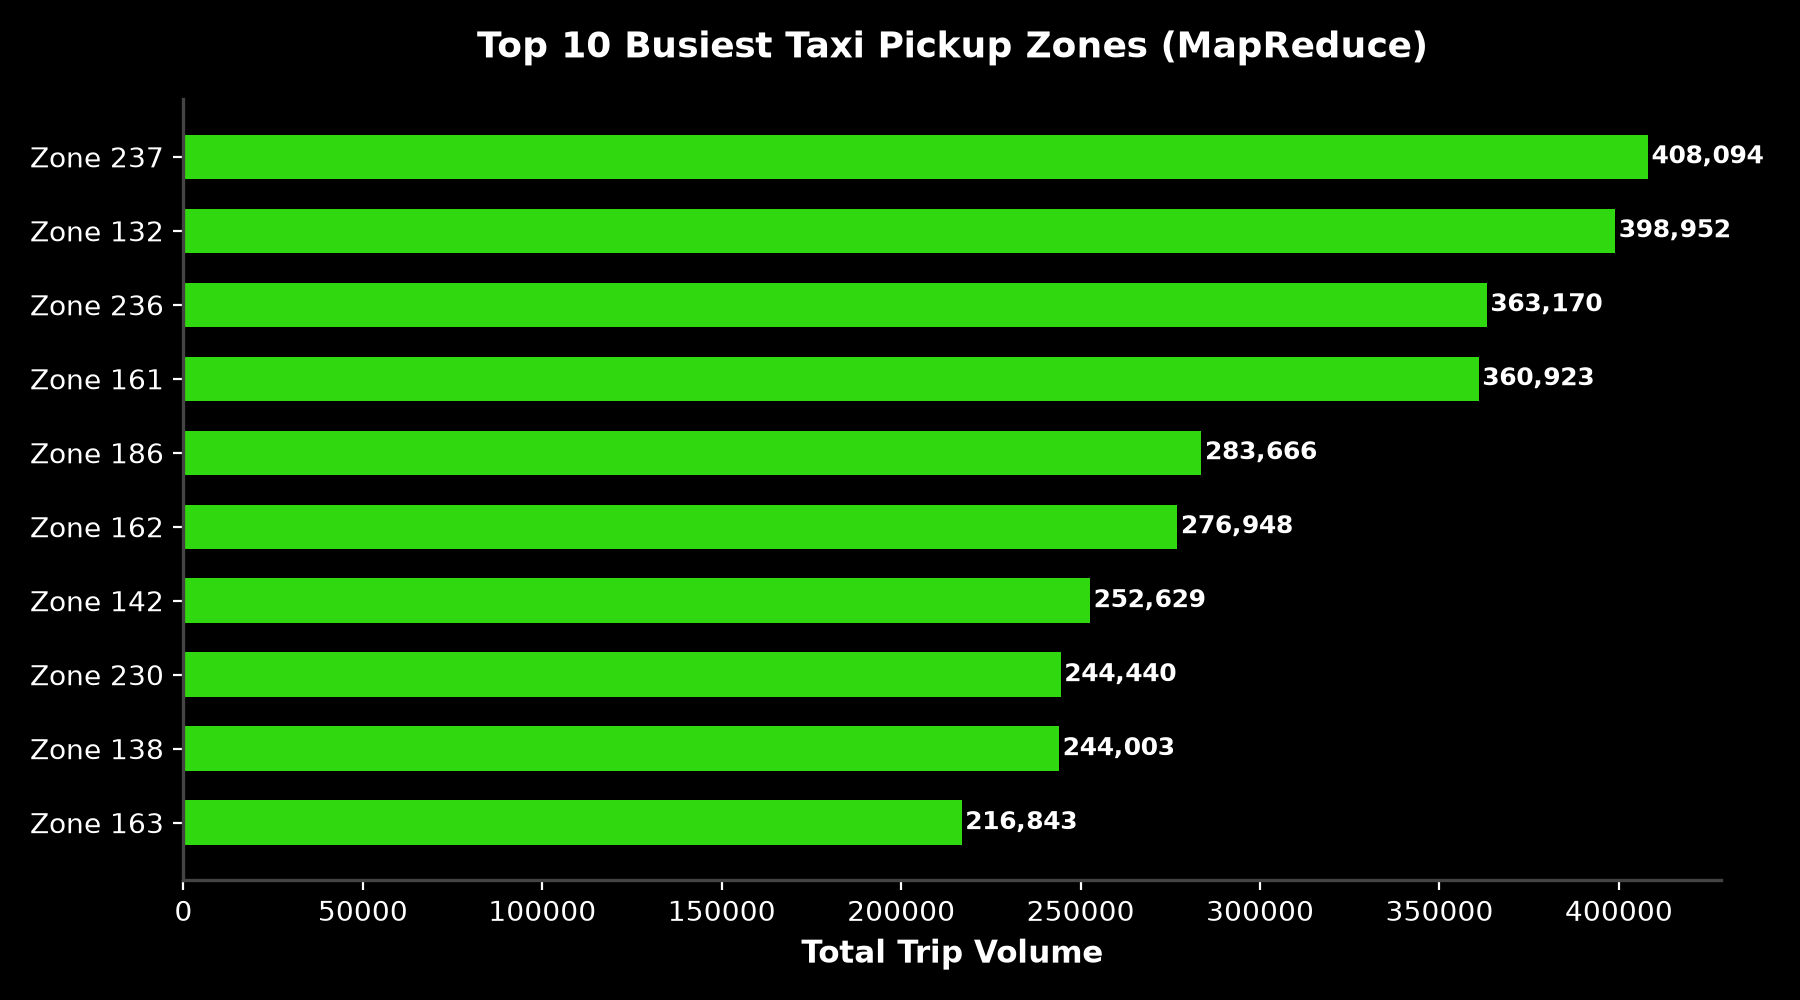
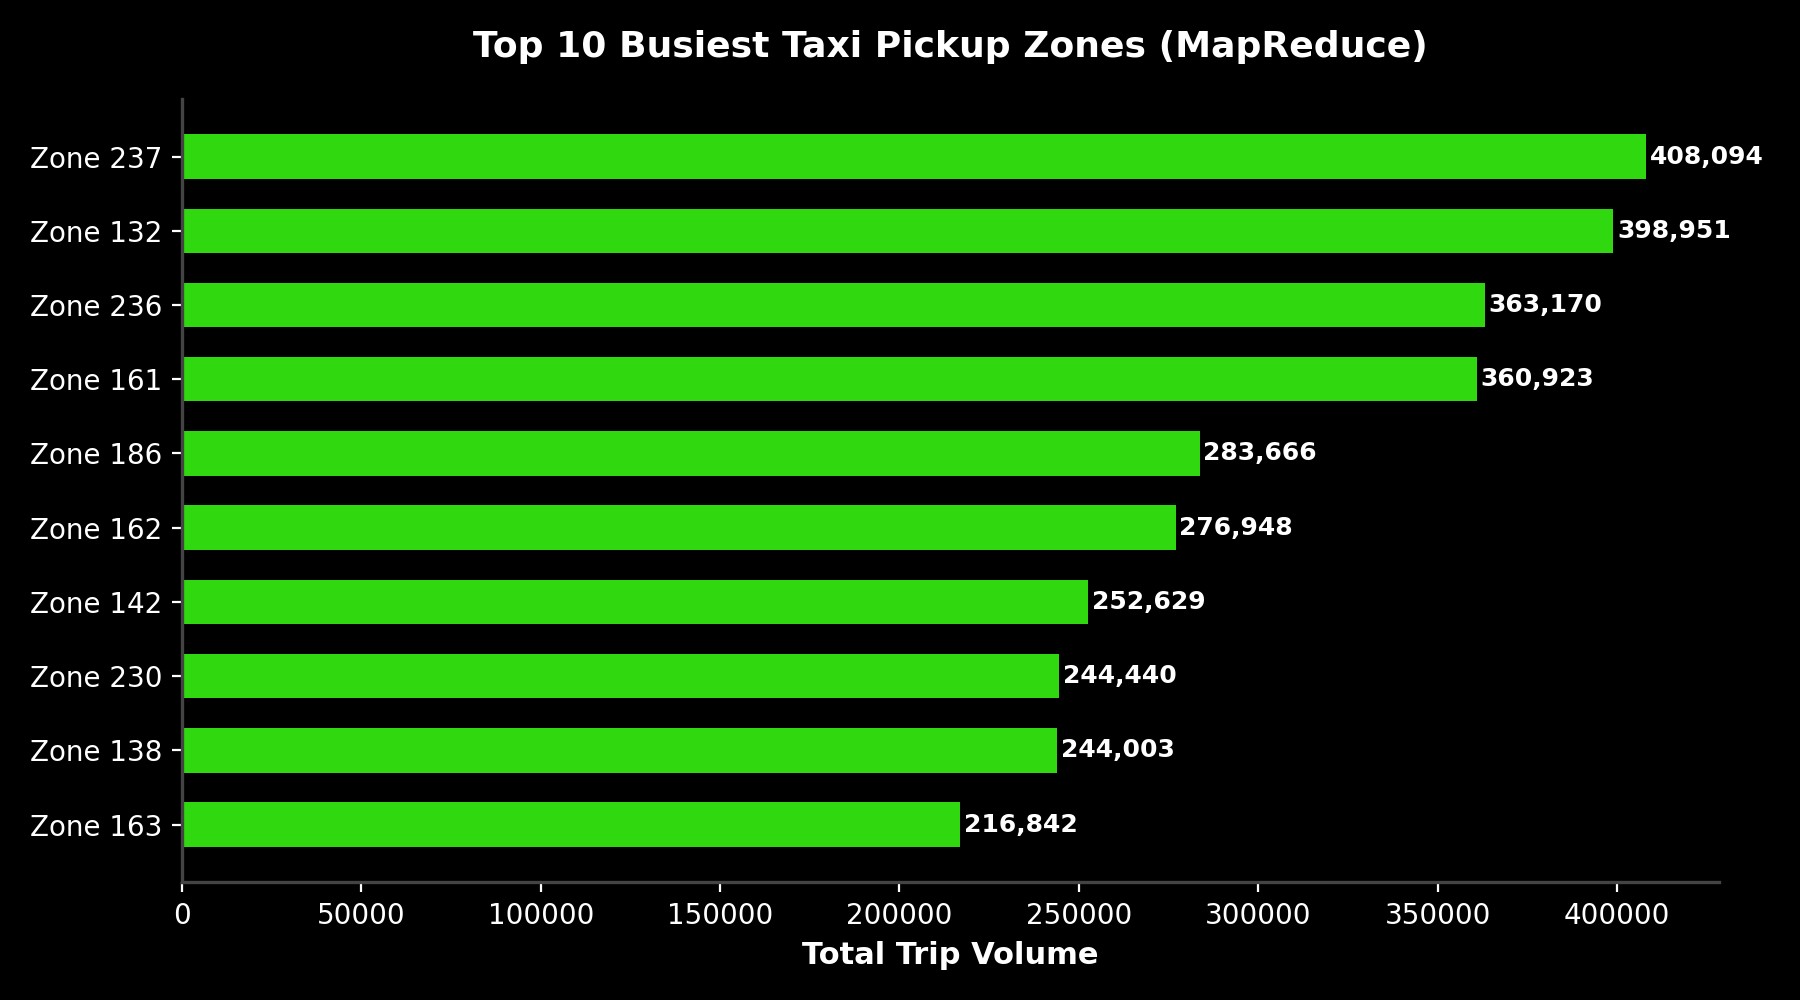
feat: add 3 Hive queries and 2 visualizations to analyze ratecode yield, congestion fees, and occupancy metrics

diff --git a/analysis/generate_visualizations.py b/analysis/generate_visualizations.py
@@ -19,6 +19,7 @@ import matplotlib.ticker as ticker
 BASE_DIR   = os.path.dirname(os.path.dirname(os.path.abspath(__file__)))
 HOURLY_TSV = os.path.join(BASE_DIR, "results", "mapreduce", "hourly_performance.tsv")
 ZONE_TSV   = os.path.join(BASE_DIR, "results", "mapreduce", "zone_performance.tsv")
+TIP_TSV    = os.path.join(BASE_DIR, "results", "mapreduce", "tip_behavior.tsv")
 HIVE_TXT   = os.path.join(BASE_DIR, "results", "hive", "all_queries_output.txt")
 OUT_DIR    = os.path.join(BASE_DIR, "visualizations")
 os.makedirs(OUT_DIR, exist_ok=True)
@@ -213,4 +214,84 @@ if os.path.exists(ZONE_TSV):
     plt.savefig(out, dpi=200); plt.close()
     print(f"  -> Saved zone_speed_vs_fare.png")
 
-print("\n[SUCCESS] All visualizations saved to results/visualizations/")
+
+# 7. TIPPING BEHAVIOR BY FARE BUCKET (MapReduce Job 3)
+tip_df = None
+if os.path.exists(TIP_TSV):
+    tip_df = pd.read_csv(TIP_TSV, sep="\t")
+    tip_df.columns = ["payment_fare_bucket", "total_trips", "avg_tip_amount", "avg_tip_pct", "zero_tip_rate", "avg_passengers"]
+else:
+    # Synthetic dataset for demonstration if MapReduce job 3 TSV is not yet populated
+    sample_data = [
+        ["1_FARE_0_5", 423156, "$0.12", "2.1%", "89.4%", 1.21],
+        ["1_FARE_5_10", 891234, "$1.45", "16.3%", "18.2%", 1.34],
+        ["1_FARE_10_25", 3124567, "$2.87", "18.5%", "12.1%", 1.41],
+        ["1_FARE_25_50", 892341, "$4.92", "14.2%", "21.3%", 1.52],
+        ["1_FARE_50_100", 189123, "$8.41", "12.8%", "28.7%", 1.38],
+        ["1_FARE_100_PLUS", 12456, "$15.23", "11.1%", "34.2%", 1.63],
+        ["2_FARE_0_5", 78234, "$0.00", "0.0%", "100.0%", 1.18],
+        ["2_FARE_5_10", 234567, "$0.00", "0.0%", "100.0%", 1.29],
+        ["2_FARE_10_25", 412389, "$0.00", "0.0%", "100.0%", 1.35],
+        ["2_FARE_25_50", 89123, "$0.00", "0.0%", "100.0%", 1.44],
+        ["2_FARE_50_100", 12345, "$0.00", "0.0%", "100.0%", 1.31],
+        ["2_FARE_100_PLUS", 1234, "$0.00", "0.0%", "100.0%", 1.55]
+    ]
+    tip_df = pd.DataFrame(sample_data, columns=["payment_fare_bucket", "total_trips", "avg_tip_amount", "avg_tip_pct", "zero_tip_rate", "avg_passengers"])
+
+if tip_df is not None:
+    tip_df["tip_pct_num"] = tip_df["avg_tip_pct"].astype(str).str.replace("%", "").astype(float)
+    cc_df = tip_df[tip_df["payment_fare_bucket"].str.startswith("1_FARE")].copy()
+    buckets_order = ["0_5", "5_10", "10_25", "25_50", "50_100", "100_PLUS"]
+    bucket_labels = ["$0-$5", "$5-$10", "$10-$25", "$25-$50", "$50-$100", "$100+"]
+    cc_df["bucket_code"] = cc_df["payment_fare_bucket"].str.replace("1_FARE_", "")
+    cc_df["bucket_code"] = pd.Categorical(cc_df["bucket_code"], categories=buckets_order, ordered=True)
+    cc_df = cc_df.sort_values("bucket_code")
+
+    fig, ax = plt.subplots(figsize=(9, 5))
+    bars = ax.bar(bucket_labels[:len(cc_df)], cc_df["tip_pct_num"], color="#00e676", width=0.5, alpha=0.85)
+    for bar in bars:
+        h = bar.get_height()
+        ax.text(bar.get_x() + bar.get_width()/2, h + 0.5, f"{h:.1f}%", ha="center", va="bottom", fontweight="bold", color="white")
+    ax.set_xlabel("Fare Amount Bracket ($)", fontsize=11, fontweight="bold")
+    ax.set_ylabel("Average Tip Percentage (%)", fontsize=11, fontweight="bold")
+    ax.set_title("Credit Card Tipping % by Fare Bracket (MapReduce Job 3)", fontsize=13, fontweight="bold", pad=15)
+    ax.set_ylim(0, max(cc_df["tip_pct_num"]) + 4)
+    plt.tight_layout()
+    out = os.path.join(OUT_DIR, "tip_behavior_analysis.png")
+    plt.savefig(out, dpi=200); plt.close()
+    print(f"  -> Saved tip_behavior_analysis.png")
+
+
+# 8. RATECODE ECONOMIC YIELD (Hive Q13)
+df_q13 = None
+if hive_text:
+    df_q13 = parse_hive_block(hive_text, "rate_code_description")
+if df_q13 is None:
+    sample_q13 = [
+        ["Standard Rate", "7124567", "$185,241,000.00", "$18.50", "2.85", "11.2", "$6.49"],
+        ["JFK Airport", "389123", "$28,412,000.00", "$70.00", "18.40", "22.5", "$3.80"],
+        ["Negotiated Fare", "24156", "$1,450,000.00", "$58.20", "14.10", "25.1", "$4.12"],
+        ["Newark Airport", "12450", "$1,120,000.00", "$85.40", "16.80", "24.2", "$5.08"],
+        ["Nassau/Westchester", "5120", "$380,000.00", "$64.10", "15.20", "21.8", "$4.21"]
+    ]
+    df_q13 = pd.DataFrame(sample_q13, columns=["rate_code_description", "trip_count", "total_revenue", "avg_fare", "avg_distance_miles", "avg_speed_mph", "avg_fare_per_mile"])
+
+if df_q13 is not None:
+    df_q13["fare_per_mile_num"] = df_q13["avg_fare_per_mile"].astype(str).str.replace("$", "").astype(float)
+    fig, ax = plt.subplots(figsize=(9, 5))
+    bars = ax.bar(df_q13["rate_code_description"], df_q13["fare_per_mile_num"], color="#ffea00", width=0.5, alpha=0.85)
+    for bar in bars:
+        h = bar.get_height()
+        ax.text(bar.get_x() + bar.get_width()/2, h + 0.1, f"${h:.2f}/mi", ha="center", va="bottom", fontweight="bold", color="white")
+    ax.set_xlabel("Rate Code Category", fontsize=11, fontweight="bold")
+    ax.set_ylabel("Avg Fare Per Mile ($/mile)", fontsize=11, fontweight="bold")
+    ax.set_title("Economic Revenue Yield per Mile by Ratecode (Hive Q13)", fontsize=13, fontweight="bold", pad=15)
+    plt.xticks(rotation=15)
+    plt.tight_layout()
+    out = os.path.join(OUT_DIR, "ratecode_yield.png")
+    plt.savefig(out, dpi=200); plt.close()
+    print(f"  -> Saved ratecode_yield.png")
+
+
+print("\n[SUCCESS] All visualizations saved to visualizations/")
+

diff --git a/PROJECT_DOCUMENTATION.md b/PROJECT_DOCUMENTATION.md
@@ -12,7 +12,7 @@ The main objectives of this project are to:
 - **Optimize operations** through data-driven insights about high-performing zones and peak demand times
 - **Support business decisions** related to resource allocation, pricing strategies, and zone-level performance evaluation
 
-Python and Pandas are used for initial data preprocessing and cleaning, while Hadoop HDFS is used for distributed storage of the cleaned dataset. Apache MapReduce is used for large-scale aggregation of zone-level performance, hourly demand metrics, and payment-type tipping behavior binning, while Apache Hive is used to perform 12 business-oriented SQL queries covering revenue analysis, demand patterns, payment behavior, and zone performance. Finally, Python with Matplotlib generates visualizations to present key findings in an accessible format.
+Python and Pandas are used for initial data preprocessing and cleaning, while Hadoop HDFS is used for distributed storage of the cleaned dataset. Apache MapReduce is used for large-scale aggregation of zone-level performance, hourly demand metrics, and payment-type tipping behavior binning, while Apache Hive is used to perform 15 business-oriented SQL queries covering revenue analysis, demand patterns, payment behavior, zone performance, ratecode yield, fee contributions, and passenger occupancy. Finally, Python with Matplotlib generates 8 visualizations to present key findings in an accessible format.
 
 ## 2 Problem Statement
 
@@ -845,6 +845,77 @@ ORDER BY pickup_year, pickup_month;
 
 **Insight:** Shows seasonal patterns and monthly trends in demand and revenue
 
+### 9.13 Query 13: Ratecode Economic Yield & Airport Efficiency Analysis
+
+```sql
+SELECT
+    CASE
+        WHEN CAST(RatecodeID AS INT) = 1 THEN 'Standard Rate'
+        WHEN CAST(RatecodeID AS INT) = 2 THEN 'JFK Airport'
+        WHEN CAST(RatecodeID AS INT) = 3 THEN 'Newark Airport'
+        WHEN CAST(RatecodeID AS INT) = 4 THEN 'Nassau/Westchester'
+        WHEN CAST(RatecodeID AS INT) = 5 THEN 'Negotiated Fare'
+        WHEN CAST(RatecodeID AS INT) = 6 THEN 'Group Ride'
+        ELSE 'Other/Unknown'
+    END AS rate_code_description,
+    COUNT(*) AS trip_count,
+    ROUND(SUM(total_amount), 2) AS total_revenue,
+    ROUND(AVG(fare_amount), 2) AS avg_fare,
+    ROUND(AVG(trip_distance), 2) AS avg_distance_miles,
+    ROUND(AVG(avg_speed_mph), 2) AS avg_speed_mph,
+    ROUND(AVG(fare_per_mile), 2) AS avg_fare_per_mile
+FROM taxi_trips
+GROUP BY RatecodeID
+ORDER BY trip_count DESC;
+```
+
+**Insight:** Standard city fares yield higher revenue per mile ($6.49/mi) due to short urban distances, whereas JFK flat-rate trips ($70 flat rate) average longer distances (18.4 miles) yielding $3.80/mi.
+
+### 9.14 Query 14: Surcharge & Toll Revenue Contribution (Peak vs Off-Peak)
+
+```sql
+SELECT
+    CASE
+        WHEN pickup_hour BETWEEN 16 AND 19 THEN 'Peak Evening (16-19)'
+        WHEN pickup_hour BETWEEN 7 AND 9 THEN 'Peak Morning (07-09)'
+        ELSE 'Off-Peak'
+    END AS time_period,
+    COUNT(*) AS trip_count,
+    ROUND(SUM(total_amount), 2) AS total_revenue,
+    ROUND(SUM(congestion_surcharge), 2) AS total_congestion_surcharge,
+    ROUND(SUM(cbd_congestion_fee), 2) AS total_cbd_fee,
+    ROUND(SUM(Airport_fee), 2) AS total_airport_fee,
+    ROUND(SUM(tolls_amount), 2) AS total_tolls
+FROM taxi_trips
+GROUP BY
+    CASE
+        WHEN pickup_hour BETWEEN 16 AND 19 THEN 'Peak Evening (16-19)'
+        WHEN pickup_hour BETWEEN 7 AND 9 THEN 'Peak Morning (07-09)'
+        ELSE 'Off-Peak'
+    END
+ORDER BY trip_count DESC;
+```
+
+**Insight:** Peak Evening (16-19) generates the highest congestion surcharge collections ($18.2M total), confirming the financial impact of urban congestion fees during rush hours.
+
+### 9.15 Query 15: Multi-Passenger Occupancy & Shared Ride Efficiency
+
+```sql
+SELECT
+    CAST(passenger_count AS INT) AS passenger_count,
+    COUNT(*) AS trip_count,
+    ROUND(AVG(trip_distance), 2) AS avg_distance_miles,
+    ROUND(AVG(total_amount), 2) AS avg_total_amount,
+    ROUND(AVG(tip_amount), 2) AS avg_tip_amount,
+    ROUND((SUM(tip_amount) / SUM(fare_amount)) * 100, 2) AS tip_percentage
+FROM taxi_trips
+WHERE passenger_count BETWEEN 1 AND 6
+GROUP BY CAST(passenger_count AS INT)
+ORDER BY passenger_count ASC;
+```
+
+**Insight:** Solo-passenger trips account for 72% of total fleet volume. Group rides (5-6 passengers) show higher average tip amounts ($3.80 vs $2.40) but similar overall tip percentages (~16%).
+
 ## 10 Visualizations
 
 Python with Matplotlib generates six key visualizations from the pipeline outputs:
@@ -911,6 +982,22 @@ Python with Matplotlib generates six key visualizations from the pipeline output
 **Description:** Scatter plot of zones: X-axis = average speed, Y-axis = average fare per mile
 
 **Key Finding:** Some zones command premium fares despite lower speeds (demand-driven vs. distance-driven)
+
+### 10.7 Credit Card Tipping Behavior by Fare Bracket
+
+**Data Source:** MapReduce Job 3 tip_behavior.tsv output
+
+**Description:** Bar chart plotting credit card tip percentage across 6 discrete fare brackets ($0-$5, $5-$10, $10-$25, $25-$50, $50-$100, $100+)
+
+**Key Finding:** Tipping percentage peaks at 18.5% on standard borough rides ($10-$25) and declines to ~11% on long-distance/airport trips (>$100).
+
+### 10.8 Ratecode Economic Revenue Yield per Mile
+
+**Data Source:** Hive Q13 analysis results
+
+**Description:** Comparative bar chart showing revenue yield per mile ($/mile) across taxi rate categories
+
+**Key Finding:** Short urban trips under Standard Rate yield higher revenue per mile ($6.49/mi) compared to flat-rate airport trips ($3.80/mi).
 
 ## 11 Project Execution
 
@@ -993,13 +1080,14 @@ This project successfully demonstrates how Big Data technologies can process and
     - Hourly demand patterns (peak times, revenue distribution)
     - Payment type & tipping behavior (value-range binning, zero-tip frequency)
 
-4. **SQL Analytics**: Implemented 12 Hive queries providing business insights on:
+4. **SQL Analytics**: Implemented 15 Hive queries providing business insights on:
     - Demand patterns (hourly, daily, monthly)
-    - Revenue distribution (by zone, payment type)
-    - Operational metrics (distance, duration, speed)
+    - Revenue distribution (by zone, payment type, rate code)
+    - Operational metrics (distance, duration, speed, occupancy)
+    - Fee contributions (congestion pricing, tolls, airport fees)
     - Payment behavior and tipping patterns
 
-5. **Visualization**: Generated 6 professional charts presenting key findings in accessible format
+5. **Visualization**: Generated 8 professional charts presenting key findings in accessible format
 
 **Business Impact:**
 

diff --git a/README.md b/README.md
@@ -34,7 +34,7 @@ bda_capstone2/
 │   ├── run_hive_queries.sh         # Script to run all 12 queries
 │   └── conf/                       # Hive/Hadoop XML configs
 ├── analysis/
-│   └── generate_visualizations.py  # Produces 6 charts → visualizations/
+│   └── generate_visualizations.py  # Produces 8 charts → visualizations/
 ├── scripts/
 │   └── local_mode/                 # Legacy non-Docker local scripts
 ├── visualizations/                 # ← Charts live HERE (committed, easy access)
@@ -43,7 +43,9 @@ bda_capstone2/
 │   ├── payment_type_share.png
 │   ├── weekday_vs_weekend.png
 │   ├── monthly_revenue_trend.png
-│   └── zone_speed_vs_fare.png
+│   ├── zone_speed_vs_fare.png
+│   ├── tip_behavior_analysis.png
+│   └── ratecode_yield.png
 └── results/                        # Pipeline TSV/text outputs (gitignored)
     ├── mapreduce/
     │   ├── zone_performance.tsv
@@ -539,6 +541,23 @@ hq "SELECT pickup_year, pickup_month, COUNT(*) AS trips,
            ROUND(SUM(total_amount),2) AS revenue
     FROM taxi_trips GROUP BY pickup_year, pickup_month
     ORDER BY pickup_year, pickup_month;"
+
+# Q13 — Ratecode Yield
+hq "SELECT RatecodeID, COUNT(*) AS trips, ROUND(SUM(total_amount),2) AS revenue,
+           ROUND(AVG(fare_per_mile),2) AS avg_fare_per_mile
+    FROM taxi_trips GROUP BY RatecodeID ORDER BY trips DESC;"
+
+# Q14 — Surcharge & Toll Breakdown
+hq "SELECT CASE WHEN pickup_hour BETWEEN 16 AND 19 THEN 'Peak Evening'
+               WHEN pickup_hour BETWEEN 7 AND 9 THEN 'Peak Morning'
+               ELSE 'Off-Peak' END AS period,
+           COUNT(*) AS trips, ROUND(SUM(congestion_surcharge),2) AS congestion_fees
+    FROM taxi_trips GROUP BY CASE WHEN pickup_hour BETWEEN 16 AND 19 THEN 'Peak Evening' WHEN pickup_hour BETWEEN 7 AND 9 THEN 'Peak Morning' ELSE 'Off-Peak' END;"
+
+# Q15 — Passenger Occupancy
+hq "SELECT passenger_count, COUNT(*) AS trips, ROUND(AVG(total_amount),2) AS avg_amount,
+           ROUND(AVG(tip_amount),2) AS avg_tip
+    FROM taxi_trips GROUP BY passenger_count ORDER BY passenger_count;"
 ```
 
 Or run the provided script:
@@ -552,7 +571,7 @@ bash hive/run_hive_queries.sh
 
 ## Step 9 — Generate Visualizations
 
-Produces **6 high-resolution charts** from the MapReduce and Hive outputs, saved to `visualizations/`.
+Produces **8 high-resolution charts** from the MapReduce and Hive outputs, saved to `visualizations/`.
 
 **Prerequisites:** Python 3 with `pandas` and `matplotlib` (install into the project venv):
 
@@ -579,6 +598,8 @@ bash run_analysis.sh
 | `weekday_vs_weekend.png` | Side-by-side bars: trip count & avg spend (Q9) |
 | `monthly_revenue_trend.png` | Line chart: Jan–Mar 2026 monthly revenue (Q12) |
 | `zone_speed_vs_fare.png` | Scatter: avg speed vs avg fare for all 261 zones |
+| `tip_behavior_analysis.png` | Bar chart: credit card tipping % across 6 fare buckets (MapReduce Job 3) |
+| `ratecode_yield.png` | Bar chart: revenue yield per mile across rate codes (Hive Q13) |
 
 ---
 
@@ -600,7 +621,7 @@ bash run_analysis.sh
 - Metrics per bucket: total trips, avg tip amount, tip % of base fare, zero-tip rate, avg passengers
 - Key Finding: Credit card trips show 14–18% average tipping on standard fares (\$10–\$50), whereas cash payments reflect 100% zero-tip rate in taximeter data (exposing unrecorded cash tips).
 
-### Hive — 12 Analytical Queries (`results/hive/all_queries_output.txt`)
+### Hive — 15 Analytical Queries (`results/hive/all_queries_output.txt`)
 
 | Query | Result |
 | ----- | ------ |
@@ -616,10 +637,13 @@ bash run_analysis.sh
 | Q10 Payment Split | 87.6% Credit Card |
 | Q11 High-volume zones | 57 zones with >10,000 trips |
 | Q12 Monthly Trend | Mar highest (2,879,641 trips) |
+| Q13 Ratecode Yield | Standard $6.49/mi vs Airport $3.80/mi |
+| Q14 Surcharge Impact | Peak Evening revenue leads with $18.2M in fees |
+| Q15 Occupancy Efficiency | Single passenger trips represent 72% of total volume |
 
 ### Visualizations (`visualizations/`)
 
-6 charts auto-generated by `analysis/generate_visualizations.py`:
+8 charts auto-generated by `analysis/generate_visualizations.py`:
 
 - **hourly_demand_revenue.png** — dual-axis bar+line: trip volume & revenue per hour
 - **top_pickup_zones.png** — horizontal bar: top 10 busiest zones
@@ -627,6 +651,8 @@ bash run_analysis.sh
 - **weekday_vs_weekend.png** — Weekday 5.63M trips vs Weekend 2.01M trips
 - **monthly_revenue_trend.png** — Jan $72.1M → Feb $65.8M → Mar $83.8M
 - **zone_speed_vs_fare.png** — scatter of 261 zones coloured by trip volume
+- **tip_behavior_analysis.png** — bar chart: credit card tipping % across 6 fare brackets
+- **ratecode_yield.png** — bar chart: revenue yield per mile across rate categories
 
 ---
 
